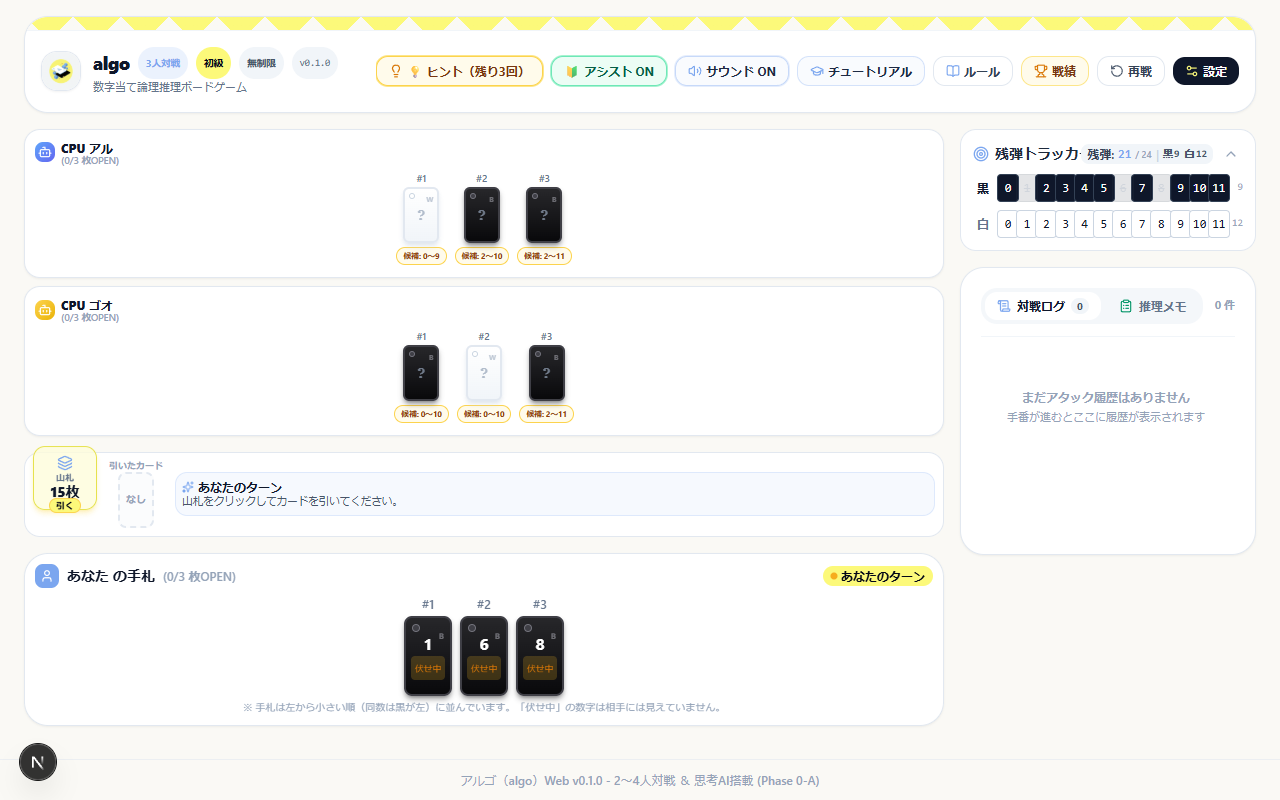
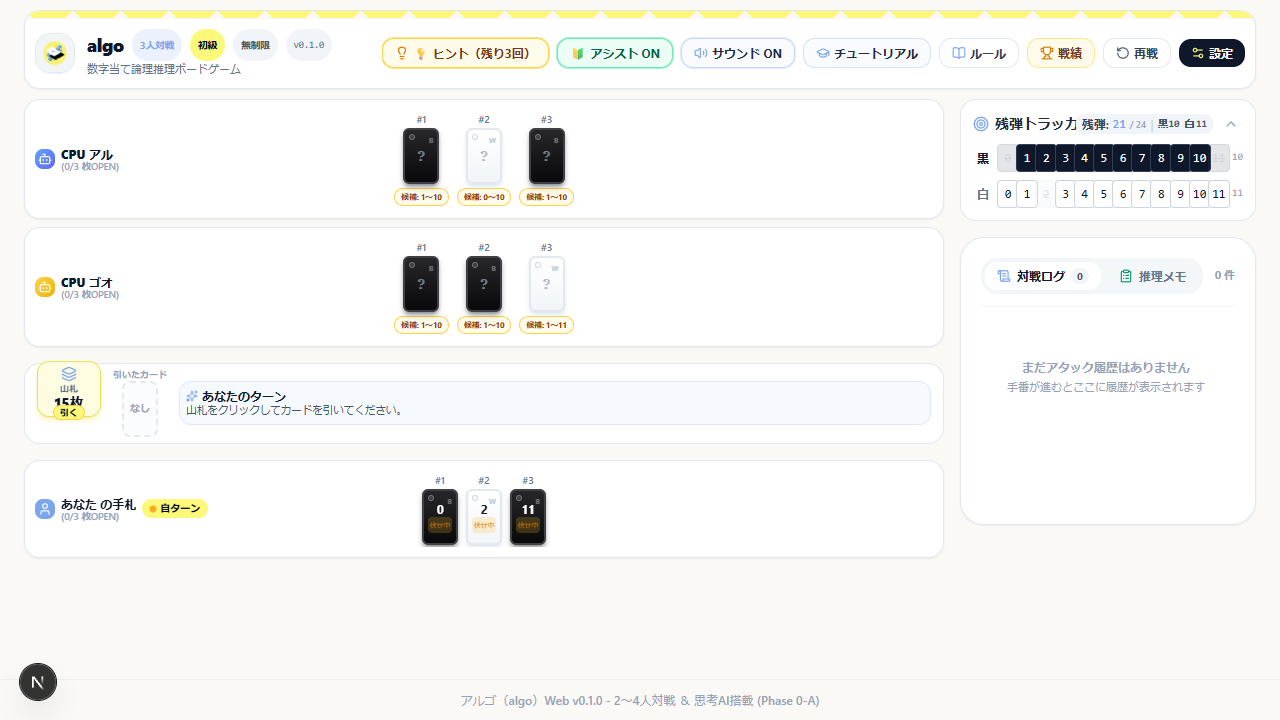
fix(ui): 相手・自手札カード列の垂直位置揃えとPC1画面収まりの極小化 (#131)

diff --git a/src/components/GameBoard.tsx b/src/components/GameBoard.tsx
@@ -1835,6 +1835,7 @@ export const GameBoard: React.FC<GameBoardProps> = ({
   // 2. 対戦盤面
   const activePlayer = gameState.players[gameState.activePlayerIndex];
   const opponents = gameState.players.filter((p) => !p.isHuman);
+  const activeCardSize = opponents.length === 1 ? 'sm' : 'xs';
   const isGameOver = gameState.phase === 'GAME_OVER';
 
   const isHumanTurn = Boolean(
@@ -1847,7 +1848,7 @@ export const GameBoard: React.FC<GameBoardProps> = ({
   return (
     <div
       data-testid="board-outer-container"
-      className={`w-full max-w-7xl mx-auto px-1.5 sm:px-4 lg:px-6 py-1 sm:py-2.5 lg:py-4 min-h-full flex-1 flex flex-col justify-between overflow-y-auto lg:overflow-visible overscroll-contain gap-1 sm:gap-2.5 lg:gap-4 ${
+      className={`w-full max-w-7xl mx-auto px-1.5 sm:px-4 lg:px-6 py-1 sm:py-2 lg:py-2.5 min-h-full flex-1 flex flex-col justify-between overflow-y-auto lg:overflow-visible overscroll-contain gap-1 sm:gap-2 lg:gap-2.5 ${
         isScreenShaking ? 'animate-shake' : ''
       }`}
     >
@@ -1887,10 +1888,10 @@ export const GameBoard: React.FC<GameBoardProps> = ({
         </div>
       )}
       {/* Top Header */}
-      <header className="bg-white border border-slate-200 rounded-xl sm:rounded-3xl shadow-sm overflow-hidden shrink-0">
-        <div className="w-full h-1 sm:h-3.5 algo-diamond-pattern border-b border-slate-100" />
+      <header className="bg-white border border-slate-200 rounded-xl sm:rounded-2xl shadow-sm overflow-hidden shrink-0">
+        <div className="w-full h-1 sm:h-2 algo-diamond-pattern border-b border-slate-100" />
 
-        <div className="p-1.5 sm:p-3 lg:p-4 flex flex-wrap items-center justify-between gap-1.5 sm:gap-3">
+        <div className="p-1.5 sm:p-2 lg:p-2.5 flex flex-wrap items-center justify-between gap-1.5 sm:gap-2.5">
           <div className="flex items-center gap-1.5 sm:gap-3">
             <div className="w-7 h-7 sm:w-10 sm:h-10 rounded-lg sm:rounded-2xl overflow-hidden shadow-sm border border-slate-200 shrink-0">
               <img src="/app-icon.jpg" alt="algo" className="w-full h-full object-cover" />
@@ -2279,99 +2280,106 @@ export const GameBoard: React.FC<GameBoardProps> = ({
                       : 'border-slate-200 shadow-sm'
                   }`}
                 >
-                  <div className="flex items-center justify-between mb-0.5 sm:mb-1">
-                    <div className="flex items-center gap-1 sm:gap-1.5">
-                      <div
-                        className={`${
-                          opponents.length > 1
-                            ? 'w-4 h-4 sm:w-5 sm:h-5 text-[10px]'
-                            : 'w-5 h-5 sm:w-6 sm:h-6 text-xs'
-                        } rounded-lg bg-gradient-to-br ${opp.avatarColor} text-white flex items-center justify-center font-bold shadow-2xs shrink-0`}
-                      >
-                        <Bot className={opponents.length > 1 ? 'w-2.5 h-2.5 sm:w-3.5 sm:h-3.5' : 'w-3 h-3 sm:w-4 sm:h-4'} />
+                  <div className="flex flex-col sm:flex-row sm:items-center sm:justify-between gap-0.5 sm:gap-2">
+                    {/* Left: Player Info & Status */}
+                    <div className="flex items-center justify-between sm:justify-start sm:w-36 lg:w-44 shrink-0 gap-1 sm:gap-1.5">
+                      <div className="flex items-center gap-1 sm:gap-1.5 min-w-0">
+                        <div
+                          className={`${
+                            opponents.length > 1
+                              ? 'w-4 h-4 sm:w-5 sm:h-5 text-[10px]'
+                              : 'w-5 h-5 sm:w-6 sm:h-6 text-xs'
+                          } rounded-lg bg-gradient-to-br ${opp.avatarColor} text-white flex items-center justify-center font-bold shadow-2xs shrink-0`}
+                        >
+                          <Bot className={opponents.length > 1 ? 'w-2.5 h-2.5 sm:w-3.5 sm:h-3.5' : 'w-3 h-3 sm:w-4 sm:h-4'} />
+                        </div>
+                        <div className="min-w-0">
+                          <span className="font-black text-[10px] sm:text-xs text-slate-900 block leading-tight truncate">{opp.name}</span>
+                          <span className="text-[8px] sm:text-[9.5px] text-slate-400 font-semibold block leading-none">
+                            ({openCount}/{opp.cards.length} 枚OPEN)
+                          </span>
+                        </div>
                       </div>
-                      <div className="min-w-0">
-                        <span className="font-black text-[10px] sm:text-xs text-slate-900 block leading-tight truncate">{opp.name}</span>
-                        <span className="text-[8px] sm:text-[9.5px] text-slate-400 font-semibold block leading-none">
-                          ({openCount}/{opp.cards.length} 枚OPEN)
+
+                      {opp.isEliminated ? (
+                        <span className="text-[8px] sm:text-[10px] px-1 py-0.2 sm:px-2 sm:py-0.5 rounded-full bg-rose-100 text-rose-700 font-bold shrink-0">
+                          脱落
                         </span>
-                      </div>
+                      ) : isCurrentTurn ? (
+                        <span className="text-[8px] sm:text-[10px] px-1 py-0.2 sm:px-2 sm:py-0.5 rounded-full bg-algo-blue text-white font-bold animate-pulse shrink-0">
+                          思考中
+                        </span>
+                      ) : null}
                     </div>
 
-                    {opp.isEliminated ? (
-                      <span className="text-[8px] sm:text-[10px] px-1 py-0.2 sm:px-2 sm:py-0.5 rounded-full bg-rose-100 text-rose-700 font-bold shrink-0">
-                        脱落
-                      </span>
-                    ) : isCurrentTurn ? (
-                      <span className="text-[8px] sm:text-[10px] px-1 py-0.2 sm:px-2 sm:py-0.5 rounded-full bg-algo-blue text-white font-bold animate-pulse shrink-0">
-                        思考中
-                      </span>
-                    ) : null}
-                  </div>
+                    {/* Center: Cards */}
+                    <div
+                      data-testid={`cards-container-${opp.id}`}
+                      className="items-center py-0.5 flex flex-nowrap overflow-x-auto no-scrollbar justify-center gap-1 sm:gap-2 min-w-0 flex-1"
+                    >
+                      {opp.cards.map((card, idx) => {
+                        const candidateHint =
+                          !isGameOver && isAssistEnabled && !card.isOpen && !opp.isEliminated
+                            ? formatCandidateRange(
+                                getPossibleNumbersForCard({
+                                  targetIndex: idx,
+                                  targetHand: opp.cards,
+                                  allPlayers: gameState.players,
+                                  drawnCard: gameState.drawnCard,
+                                  logs: gameState.logs,
+                                  targetPlayerId: opp.id,
+                                })
+                              )
+                            : undefined;
 
-                  <div
-                    data-testid={`cards-container-${opp.id}`}
-                    className="items-center pt-0.5 pb-0.5 min-h-10 sm:min-h-12 flex flex-nowrap overflow-x-auto no-scrollbar justify-center gap-1 sm:gap-2 max-w-full"
-                  >
-                    {opp.cards.map((card, idx) => {
-                      const candidateHint =
-                        !isGameOver && isAssistEnabled && !card.isOpen && !opp.isEliminated
-                          ? formatCandidateRange(
-                              getPossibleNumbersForCard({
-                                targetIndex: idx,
-                                targetHand: opp.cards,
-                                allPlayers: gameState.players,
-                                drawnCard: gameState.drawnCard,
-                                logs: gameState.logs,
-                                targetPlayerId: opp.id,
-                              })
-                            )
-                          : undefined;
+                        const failedNumbers = !isGameOver ? getFailedNumbersForCard(gameState.logs, opp.id, idx) : undefined;
+                        const isHintTarget = Boolean(
+                          !isGameOver &&
+                          activeHint &&
+                          activeHint.targetPlayerId === opp.id &&
+                          activeHint.targetCardIndex === idx &&
+                          !card.isOpen &&
+                          !opp.isEliminated
+                        );
 
-                      const failedNumbers = !isGameOver ? getFailedNumbersForCard(gameState.logs, opp.id, idx) : undefined;
-                      const isHintTarget = Boolean(
-                        !isGameOver &&
-                        activeHint &&
-                        activeHint.targetPlayerId === opp.id &&
-                        activeHint.targetCardIndex === idx &&
-                        !card.isOpen &&
-                        !opp.isEliminated
-                      );
+                        return (
+                          <CardComponent
+                            key={card.id}
+                            card={isGameOver ? card : maskCardForPlayer(card, false)}
+                            isOwner={false}
+                            isRevealed={isGameOver}
+                            size={activeCardSize}
+                            label={`#${idx + 1}`}
+                            testId={`opponent-card-${idx}`}
+                            candidateHint={candidateHint}
+                            failedGuesses={failedNumbers}
+                            isEliminated={opp.isEliminated}
+                            isHintTarget={isHintTarget}
+                            isNewlyInserted={
+                              !isGameOver &&
+                              recentlyInsertedCard?.playerId === opp.id &&
+                              recentlyInsertedCard?.cardId === card.id
+                            }
+                            isSelectable={
+                              !isGameOver &&
+                              activePlayer?.isHuman &&
+                              gameState.phase === 'PLAYER_SELECT_TARGET' &&
+                              !opp.isEliminated &&
+                              !card.isOpen
+                            }
+                            isSelected={
+                              !isGameOver &&
+                              gameState.selectedTarget?.playerId === opp.id &&
+                              gameState.selectedTarget?.cardIndex === idx
+                            }
+                            onClick={() => handleSelectTargetCard(opp.id, idx)}
+                          />
+                        );
+                      })}
+                    </div>
 
-                      return (
-                        <CardComponent
-                          key={card.id}
-                          card={isGameOver ? card : maskCardForPlayer(card, false)}
-                          isOwner={false}
-                          isRevealed={isGameOver}
-                          size={opponents.length === 1 ? 'sm' : 'xs'}
-                          label={`#${idx + 1}`}
-                          testId={`opponent-card-${idx}`}
-                          candidateHint={candidateHint}
-                          failedGuesses={failedNumbers}
-                          isEliminated={opp.isEliminated}
-                          isHintTarget={isHintTarget}
-                          isNewlyInserted={
-                            !isGameOver &&
-                            recentlyInsertedCard?.playerId === opp.id &&
-                            recentlyInsertedCard?.cardId === card.id
-                          }
-                          isSelectable={
-                            !isGameOver &&
-                            activePlayer?.isHuman &&
-                            gameState.phase === 'PLAYER_SELECT_TARGET' &&
-                            !opp.isEliminated &&
-                            !card.isOpen
-                          }
-                          isSelected={
-                            !isGameOver &&
-                            gameState.selectedTarget?.playerId === opp.id &&
-                            gameState.selectedTarget?.cardIndex === idx
-                          }
-                          onClick={() => handleSelectTargetCard(opp.id, idx)}
-                        />
-                      );
-                    })}
+                    {/* Right: Dummy spacer for perfect centering on desktop */}
+                    <div className="hidden sm:block shrink-0 sm:w-36 lg:w-44" aria-hidden="true" />
                   </div>
                 </div>
               );
@@ -2390,7 +2398,7 @@ export const GameBoard: React.FC<GameBoardProps> = ({
           {/* Deck & Action Bar (自手札直上配置・コンパクトバー形式で中央のデッドスペースを解消) */}
           <section
             data-testid="deck-action-bar"
-            className="bg-white rounded-xl sm:rounded-2xl p-1 sm:p-2 lg:p-2 border border-slate-200 shadow-xs flex items-center justify-between gap-1.5 sm:gap-3 shrink-0"
+            className="bg-white rounded-xl sm:rounded-2xl p-1 sm:px-3 sm:py-1.5 border border-slate-200 shadow-xs flex items-center justify-between gap-1.5 sm:gap-3 shrink-0"
           >
             {/* 1. 山札 (Deck Pile) */}
             <div className="flex items-center gap-1 sm:gap-2 shrink-0">
@@ -2412,7 +2420,7 @@ export const GameBoard: React.FC<GameBoardProps> = ({
                     : undefined
                 }
                 onClick={gameState.phase === 'PLAYER_TURN_START' && gameState.deck.length > 0 ? handlePlayerDraw : undefined}
-                className={`relative w-12 h-13 sm:w-16 sm:h-16 lg:w-18 lg:h-16 rounded-lg sm:rounded-xl border flex flex-col items-center justify-center select-none transition-all ${
+                className={`relative w-12 h-12 sm:w-14 sm:h-14 lg:w-16 lg:h-14 rounded-lg sm:rounded-xl border flex flex-col items-center justify-center select-none transition-all ${
                   gameState.phase === 'PLAYER_TURN_START' && gameState.deck.length > 0
                     ? 'border-algo-yellow-dark bg-algo-yellow-light/80 shadow-md shadow-amber-200/50 cursor-pointer hover:scale-105 animate-bounce'
                     : 'border-slate-200 bg-slate-50 text-slate-400'
@@ -2573,45 +2581,65 @@ export const GameBoard: React.FC<GameBoardProps> = ({
           {humanPlayer && (
             <section
               data-testid={`player-hand-${humanPlayer.id}`}
-              className="bg-white rounded-xl sm:rounded-2xl lg:rounded-3xl p-1.5 sm:p-2 lg:p-2.5 border border-slate-200 shadow-sm relative overflow-hidden shrink-0"
+              className={`bg-white rounded-xl sm:rounded-2xl border border-slate-200 shadow-sm relative overflow-hidden shrink-0 ${
+                opponents.length >= 3
+                  ? 'p-1.5 sm:p-2.5 lg:p-2 shadow-2xs'
+                  : opponents.length === 2
+                  ? 'p-1.5 sm:p-2.5 lg:p-2.5 shadow-2xs'
+                  : 'p-2 sm:p-3 lg:p-3.5 shadow-xs'
+              }`}
             >
-              <div className="flex items-center justify-between mb-0.5 sm:mb-1">
-                <div className="flex items-center gap-1 sm:gap-2">
-                  <div className="w-5 h-5 sm:w-6 sm:h-6 rounded-lg bg-algo-blue text-white flex items-center justify-center font-bold text-xs shadow-2xs">
-                    <User className="w-3 h-3 sm:w-3.5 sm:h-3.5" />
+              <div className="flex flex-col sm:flex-row sm:items-center sm:justify-between gap-0.5 sm:gap-2">
+                {/* Left: Player Info & Status */}
+                <div className="flex items-center justify-between sm:justify-start sm:w-36 lg:w-44 shrink-0 gap-1 sm:gap-1.5">
+                  <div className="flex items-center gap-1 sm:gap-1.5 min-w-0">
+                    <div
+                      className={`${
+                        opponents.length > 1
+                          ? 'w-4 h-4 sm:w-5 sm:h-5 text-[10px]'
+                          : 'w-5 h-5 sm:w-6 sm:h-6 text-xs'
+                      } rounded-lg bg-algo-blue text-white flex items-center justify-center font-bold shadow-2xs shrink-0`}
+                    >
+                      <User className={opponents.length > 1 ? 'w-2.5 h-2.5 sm:w-3.5 sm:h-3.5' : 'w-3 h-3 sm:w-4 sm:h-4'} />
+                    </div>
+                    <div className="min-w-0">
+                      <span className="font-black text-[10px] sm:text-xs text-slate-900 block leading-tight truncate">
+                        {humanPlayer.name} の手札
+                      </span>
+                      <span className="text-[8px] sm:text-[9.5px] text-slate-400 font-semibold block leading-none">
+                        ({humanPlayer.cards.filter((c) => c.isOpen).length}/{humanPlayer.cards.length} 枚OPEN)
+                      </span>
+                    </div>
                   </div>
-                  <h3 className="font-black text-xs sm:text-sm text-slate-900">{humanPlayer.name} の手札</h3>
-                  <span className="text-[8.5px] sm:text-xs font-semibold text-slate-400">
-                    ({humanPlayer.cards.filter((c) => c.isOpen).length}/{humanPlayer.cards.length} 枚OPEN)
-                  </span>
+
+                  {activePlayer?.isHuman && (
+                    <span className="flex items-center gap-1 px-1 py-0.2 sm:px-2 sm:py-0.5 rounded-full bg-algo-yellow text-slate-950 text-[8px] sm:text-[10px] font-black shadow-2xs whitespace-nowrap shrink-0">
+                      <span className="w-1 h-1 sm:w-1.5 sm:h-1.5 rounded-full bg-amber-500 animate-ping" />
+                      自ターン
+                    </span>
+                  )}
                 </div>
 
-                {activePlayer?.isHuman && (
-                  <span className="flex items-center gap-1 px-1.5 py-0.2 sm:px-2 sm:py-0.5 rounded-full bg-algo-yellow text-slate-950 text-[8.5px] sm:text-xs font-black shadow-2xs whitespace-nowrap">
-                    <span className="w-1.5 h-1.5 rounded-full bg-amber-500 animate-ping" />
-                    あなたのターン
-                  </span>
-                )}
-              </div>
+                {/* Center: Cards */}
+                <div
+                  data-testid={`cards-container-${humanPlayer.id}`}
+                  className="items-center py-0.5 flex flex-nowrap overflow-x-auto no-scrollbar justify-center gap-1 sm:gap-2 min-w-0 flex-1"
+                >
+                  {humanPlayer.cards.map((card, idx) => (
+                    <CardComponent
+                      key={card.id}
+                      card={maskCardForPlayer(card, true)}
+                      isOwner={true}
+                      isRevealed={isGameOver}
+                      size={activeCardSize}
+                      label={`#${idx + 1}`}
+                      testId={`player-card-${idx}`}
+                    />
+                  ))}
+                </div>
 
-              {/* Player Cards */}
-              <div className="flex flex-wrap items-center justify-center gap-1 sm:gap-2 lg:gap-2 py-0.5 min-h-12 sm:min-h-16 lg:min-h-20">
-                {humanPlayer.cards.map((card, idx) => (
-                  <CardComponent
-                    key={card.id}
-                    card={maskCardForPlayer(card, true)}
-                    isOwner={true}
-                    isRevealed={isGameOver}
-                    size="sm"
-                    label={`#${idx + 1}`}
-                  />
-                ))}
-              </div>
-
-              <div className="mt-0.5 text-center hidden sm:block">
-                <p className="text-[9px] sm:text-[10px] text-slate-400 font-medium">
-                  ※ 手札は左から小さい順（同数は黒が左）に並んでいます。「伏せ中」の数字は相手には見えていません。
-                </p>
+                {/* Right: Dummy spacer for perfect centering on desktop */}
+                <div className="hidden sm:block shrink-0 sm:w-36 lg:w-44" aria-hidden="true" />
               </div>
             </section>
           )}

diff --git a/src/components/__tests__/GameBoard.test.tsx b/src/components/__tests__/GameBoard.test.tsx
@@ -4623,5 +4623,44 @@ describe('GameBoard Component & Timer Pause/Resume Logic (Issue #13)', () => {
       const playerHandSection = playerHandHeading.closest('section');
       expect(deckActionBar.nextElementSibling).toBe(playerHandSection);
     });
+
+    it('自分と相手のカードサイズおよび左右スペーサー構造が完全一致し、垂直列位置の揃えと1画面収まりが維持されていること', () => {
+      const state: Partial<GameState> = {
+        playerCount: 4,
+        players: [
+          createTestPlayer('p-1', 'あなた', true, 3),
+          createTestPlayer('cpu-1', 'CPU 1', false, 3),
+          createTestPlayer('cpu-2', 'CPU 2', false, 3),
+          createTestPlayer('cpu-3', 'CPU 3', false, 3),
+        ],
+        activePlayerIndex: 0,
+        phase: 'PLAYER_TURN_START',
+      };
+
+      render(<GameBoard initialState={state} />);
+
+      // 4人対戦時、相手手札コンテナのカードサイズが xs（w-8, h-12）であること
+      const opponentCards = screen.getAllByTestId('opponent-card-0');
+      expect(opponentCards[0].className).toContain('w-8');
+      expect(opponentCards[0].className).toContain('h-12');
+
+      const playerHandHeading = screen.getByText(/の手札/);
+      const playerHandSection = playerHandHeading.closest('section')!;
+      expect(playerHandSection).toBeInTheDocument();
+
+      const humanCardsContainer = playerHandSection.querySelector('[data-testid^="cards-container-"]')!;
+      expect(humanCardsContainer).toBeInTheDocument();
+      // 自手札のカードも xs（w-8, h-12）であること
+      const humanCard = screen.getByTestId('player-card-0');
+      expect(humanCard.className).toContain('w-8');
+      expect(humanCard.className).toContain('h-12');
+
+      // 相手手札コンテナと自分手札コンテナの整列クラスが一致していること
+      const cpu1CardsContainer = screen.getByTestId('cards-container-cpu-1');
+      expect(cpu1CardsContainer.className).toContain('justify-center');
+      expect(humanCardsContainer.className).toContain('justify-center');
+      expect(cpu1CardsContainer.className).toContain('gap-1 sm:gap-2');
+      expect(humanCardsContainer.className).toContain('gap-1 sm:gap-2');
+    });
   });
 });
